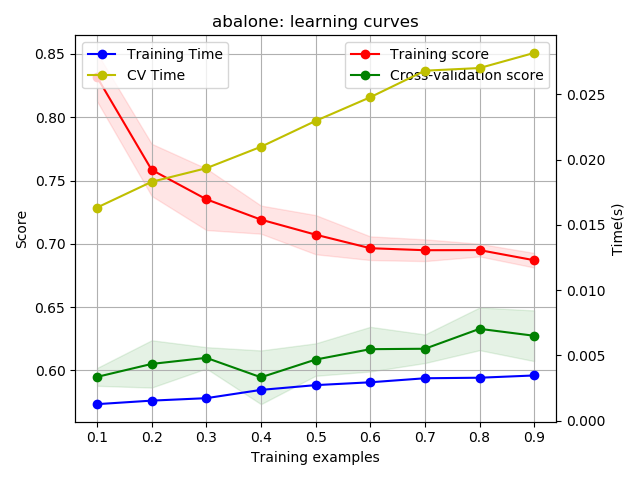
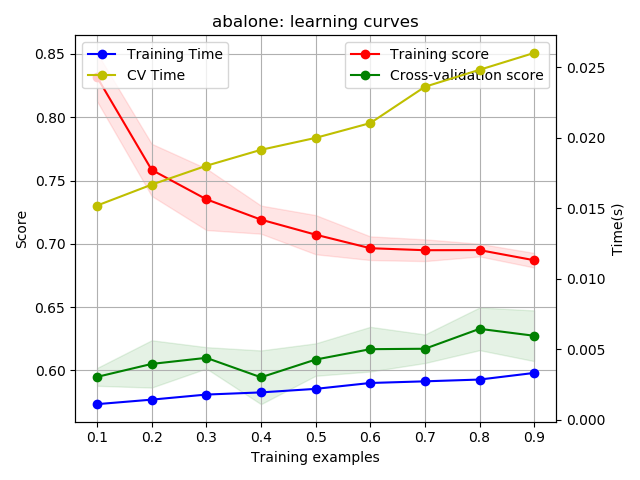
Update NN code

diff --git a/a1-supervised-learning/neural_network.py b/a1-supervised-learning/neural_network.py
@@ -5,14 +5,23 @@ from sklearn.model_selection import cross_val_score
 import matplotlib.pyplot as plt
 
 from time import time
+import sys
 
 import dataset_processing as data_proc
 
 
 def model_complexity_curve(X_train, y_train, hp, hp_vals, cv=None):
-    df = pd.DataFrame(index=hp_vals, columns=['train', 'cv'])
+    # note: this assumes we use 1 hidden layer
+    hidden_units = []
+    for val in hp_vals:
+        if type(val) is tuple:
+            hidden_units.append(val[0])
+        else:
+            hidden_units.append(val)
 
-    for hp_val in hp_vals:
+    df = pd.DataFrame(index=hidden_units, columns=['train', 'cv'])
+
+    for hp_val, hu_num in zip(hp_vals, hidden_units):
         kwargs = {
             hp: hp_val,
             'random_state': data_proc.SEED_VAL}
@@ -27,8 +36,8 @@ def model_complexity_curve(X_train, y_train, hp, hp_vals, cv=None):
         cross_vals = cross_val_score(mlpclf, X_train, y_train, cv=cv)
         cv_mean = np.mean(cross_vals)
 
-        df.loc[hp_val, 'train'] = train_score
-        df.loc[hp_val, 'cv'] = cv_mean
+        df.loc[hu_num, 'train'] = train_score
+        df.loc[hu_num, 'cv'] = cv_mean
 
     return pd.DataFrame(df, dtype='float')
 
@@ -38,20 +47,20 @@ def plot_iterative_lc(estimator, title, X, y, max_iter_range, ylim=None, cv=None
     df = pd.DataFrame(index=max_iter_range, columns=['train', 'cv', 'train_time', 'cv_time'])
     for i in max_iter_range:
         kwargs = {
-            max_iter: i,
+            'max_iter': i,
             'random_state': data_proc.SEED_VAL}
 
         mlpclf = MLPClassifier(**kwargs)
 
         # train data
         train_t0 = time()
-        mlpclf.fit(X_train, y_train)
+        mlpclf.fit(X, y)
         train_time = time() - train_t0
-        train_score = mlpclf.score(X_train, y_train)
+        train_score = mlpclf.score(X, y)
 
         # get cv scores
         cv_t0 = time()
-        cross_vals = cross_val_score(mlpclf, X_train, y_train, cv=cv)
+        cross_vals = cross_val_score(mlpclf, X, y, cv=cv)
         cv_time = time() - cv_t0
         cv_mean = np.mean(cross_vals)
 
@@ -68,20 +77,22 @@ def plot_iterative_lc(estimator, title, X, y, max_iter_range, ylim=None, cv=None
     ax1.set_xlabel("Training examples")
     ax1.set_ylabel("Score")
 
-    train_scores_mean = np.mean(df['train'], axis=1)
-    train_scores_std = np.std(df['train'], axis=1)
-    cv_scores_mean = np.mean(df['cv'], axis=1)
-    cv_scores_std = np.std(df['cv'], axis=1)
+    # debugging point
+    print(df.head(20))
+
+    train_scores = df['train']
+    train_scores_std = np.std(df['train'])
+    cv_scores = df['cv']
+    cv_scores_std = np.std(df['cv'])
 
     # plot scores on left axis
-    ax1.fill_between(train_sizes, train_scores_mean - train_scores_std,
-                     train_scores_mean + train_scores_std, alpha=0.1,
-                     color="r")
-    ax1.fill_between(train_sizes, cv_scores_mean - cv_scores_std,
-                     cv_scores_mean + cv_scores_std, alpha=0.1, color="g")
-    ax1.plot(train_sizes, train_scores_mean, 'o-', color="r",
+    # ax1.fill_between(max_iter_range, train_scores - train_scores_std,
+    #                  train_scores + train_scores_std, alpha=0.1, color="r")
+    # ax1.fill_between(max_iter_range, cv_scores - cv_scores_std,
+    #                  cv_scores + cv_scores_std, alpha=0.1, color="g")
+    ax1.plot(max_iter_range, train_scores, 'o-', color="r",
              label="Training score")
-    ax1.plot(train_sizes, cv_scores_mean, 'o-', color="g",
+    ax1.plot(max_iter_range, cv_scores, 'o-', color="g",
              label="CV score")
 
     # plot times on the right axis
@@ -103,10 +114,22 @@ def run_experiment(dataset_name, X_train, X_test, y_train, y_test, verbose=False
     hp = 'hidden_layer_sizes'
 
     # using 1 hidden layer - problems shouldn't be so complex as to require more
-    hp_vals = (np.arange(1, num_features),)  # this should vary for each hyperparameter
+    features = range(1, num_features)
+    hp_vals = []
+    for feature in features:
+        hp_vals.append((feature,))
+
+    if verbose:
+        print(hp_vals)
     hidden_layer_sizes_mc = model_complexity_curve(
         X_train, y_train, hp, hp_vals, cv=data_proc.CV_VAL)
     hidden_layer_sizes_hp = hidden_layer_sizes_mc['cv'].idxmax()
+
+    # check if index is a sequential type and convert to string
+    if type(hidden_layer_sizes_mc.index) is tuple:
+        hidden_layer_sizes_mc.index = hidden_layer_sizes_mc.index.map({}[0])
+    if verbose:
+        print(type(hidden_layer_sizes_mc.index[0]))
 
     if verbose:
         print(hidden_layer_sizes_mc.head(10))
@@ -126,7 +149,7 @@ def run_experiment(dataset_name, X_train, X_test, y_train, y_test, verbose=False
 
     # calculate model complexity scores for learning_rate_init
     hp = 'learning_rate_init'
-    hp_vals = np.logspace(-5, 0, base=10.0)    # this should vary for each hyperparameter
+    hp_vals = np.logspace(-5, 0, base=10.0, num=6)  # this should vary for each hyperparameter
     learning_rate_init_mc = model_complexity_curve(
         X_train, y_train, hp, hp_vals, cv=data_proc.CV_VAL)
     learning_rate_init_hp = learning_rate_init_mc['cv'].idxmax()
@@ -147,14 +170,15 @@ def run_experiment(dataset_name, X_train, X_test, y_train, y_test, verbose=False
     plt.clf()
     plt.close()
 
-    # instantiate decision tree
+    # instantiate neural network
     mlpclf = MLPClassifier(
         hidden_layer_sizes=hidden_layer_sizes_hp, learning_rate_init=learning_rate_init_hp,
         random_state=data_proc.SEED_VAL)
 
     # calculate and print learning curves, use max_iter as x-axis
+    ### determine whether I should tune this as a param (probably)
     max_iter_range = np.arange(50, 250, 10)
-    data_proc.plot_iterative_lc(
+    plot_iterative_lc(
         mlpclf, dataset_name + ': learning curves',
         X_train, y_train, max_iter_range=max_iter_range, cv=data_proc.CV_VAL)
 
@@ -165,6 +189,7 @@ def run_experiment(dataset_name, X_train, X_test, y_train, y_test, verbose=False
     plt.clf()
     plt.close()
 
+    mlpclf.fit(X_train, y_train)
     test_scores = data_proc.model_test_score(mlpclf, X_test, y_test)
     print("MLPClassifier holdout set score for " + dataset_name + ": ", test_scores)
 
@@ -186,5 +211,5 @@ def online_shopping(verbose=False, show_plots=False):
 
 
 if __name__ == "__main__":
-    abalone(verbose=False, show_plots=False)
-    online_shopping(verbose=False, show_plots=False)
+    abalone(verbose=True, show_plots=False)
+    online_shopping(verbose=True, show_plots=False)

diff --git a/a1-supervised-learning/dataset_processing.py b/a1-supervised-learning/dataset_processing.py
@@ -137,6 +137,7 @@ def plot_learning_curve(estimator, title, X, y, ylim=None, cv=None,
 
     train_times_df = train_times(estimator, X, y, train_sizes, cv=CV_VAL)
 
+    # collapse cv folds into a single value
     train_scores_mean = np.mean(train_scores, axis=1)
     train_scores_std = np.std(train_scores, axis=1)
     test_scores_mean = np.mean(test_scores, axis=1)
